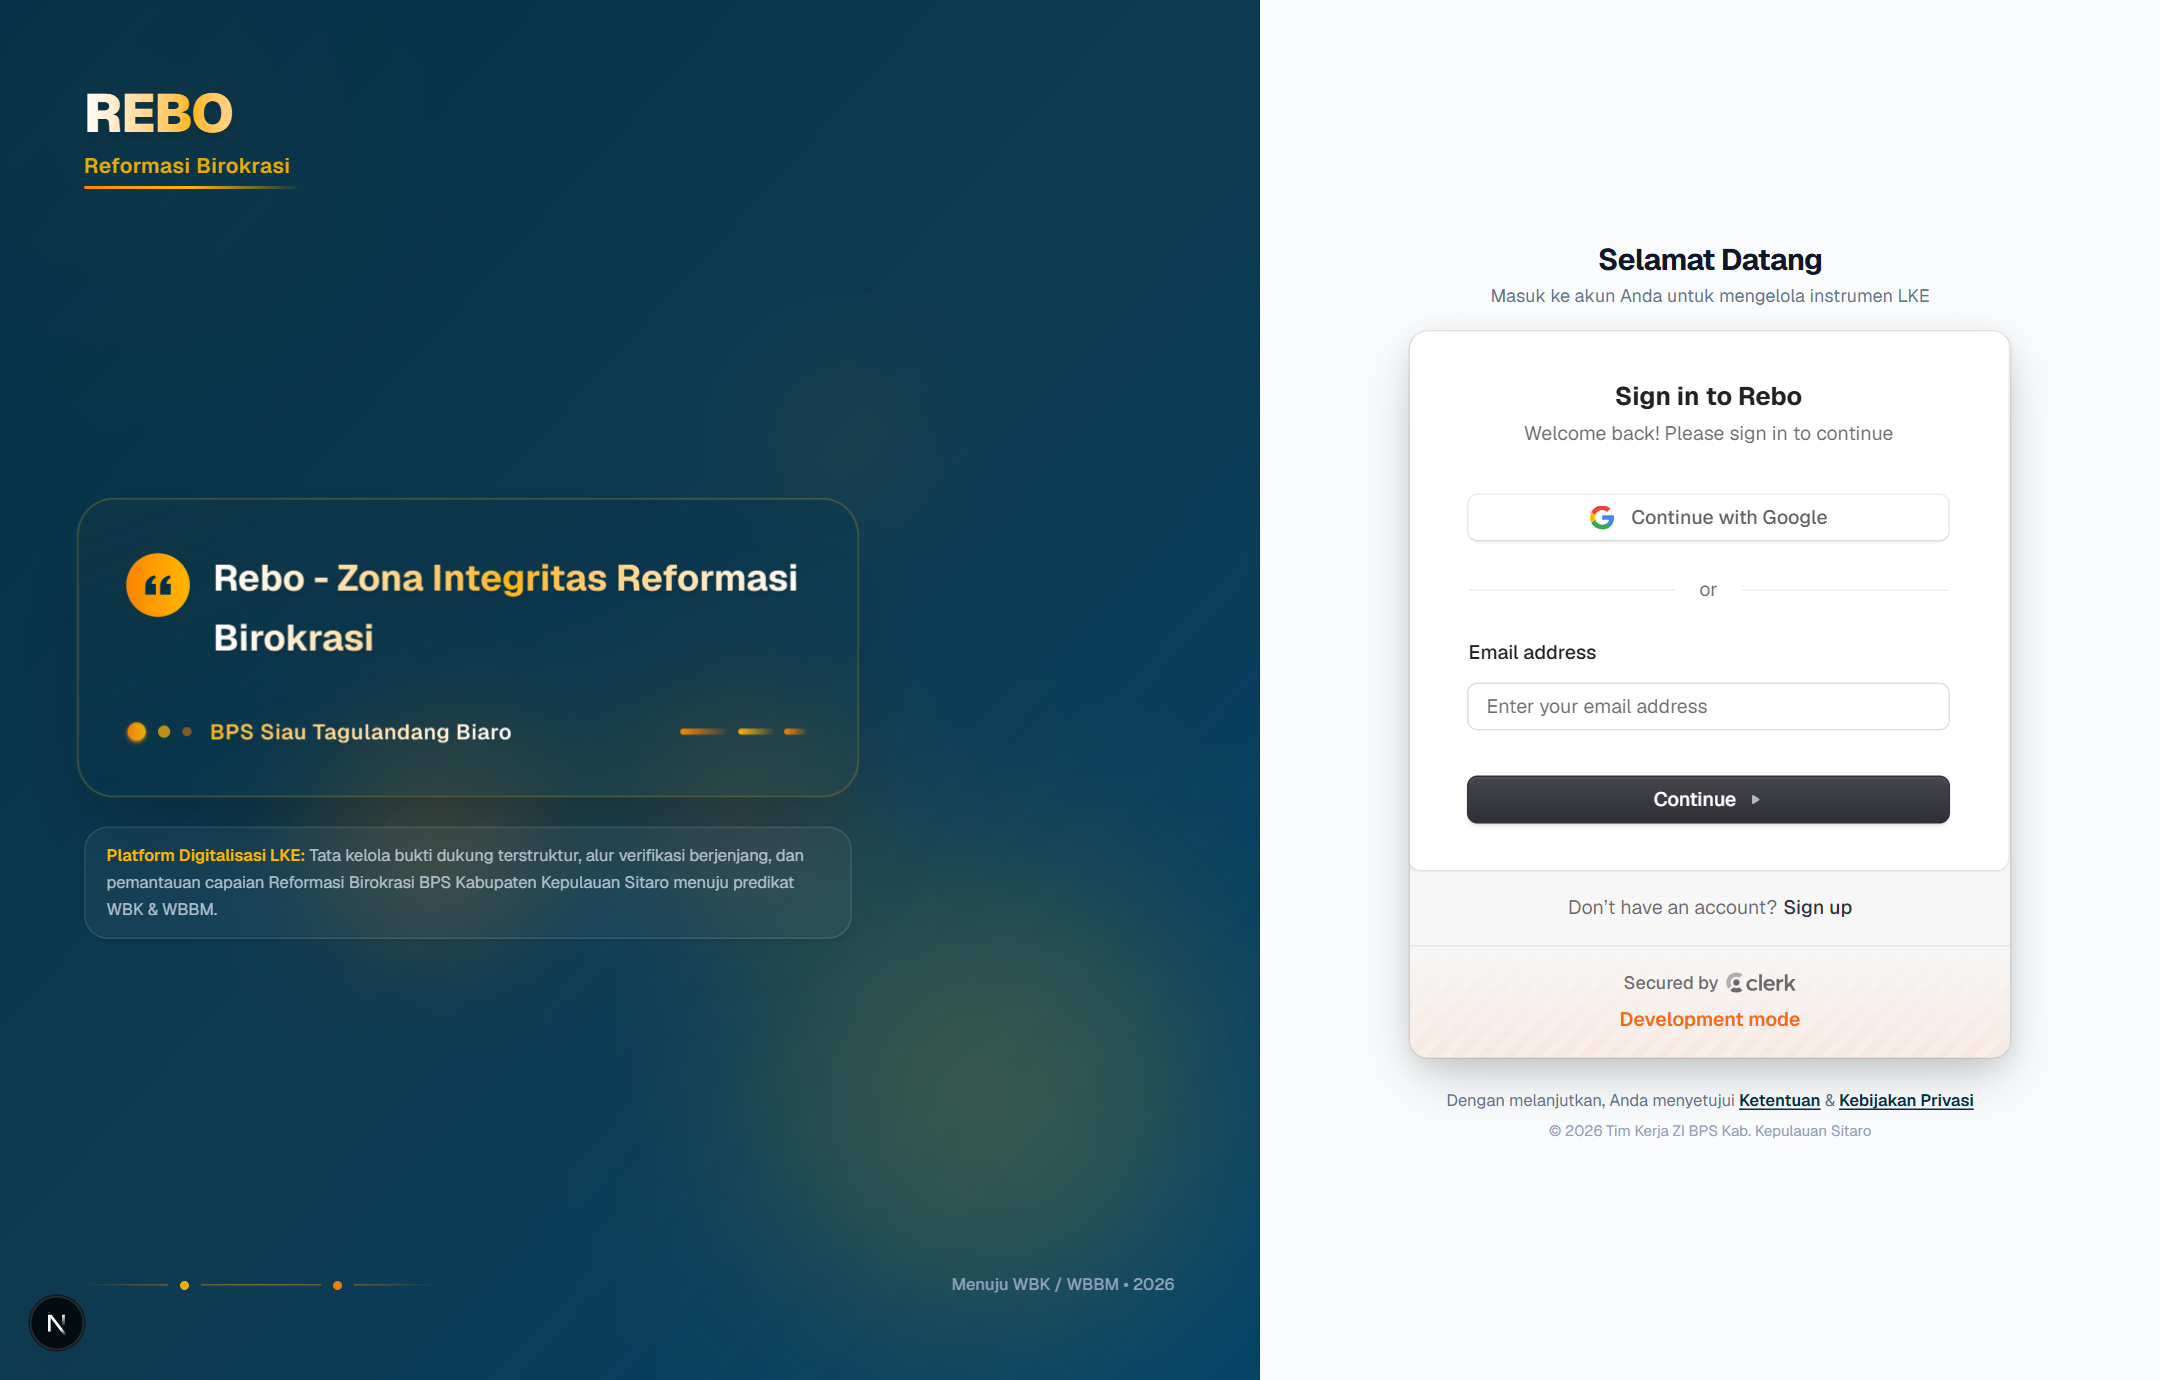
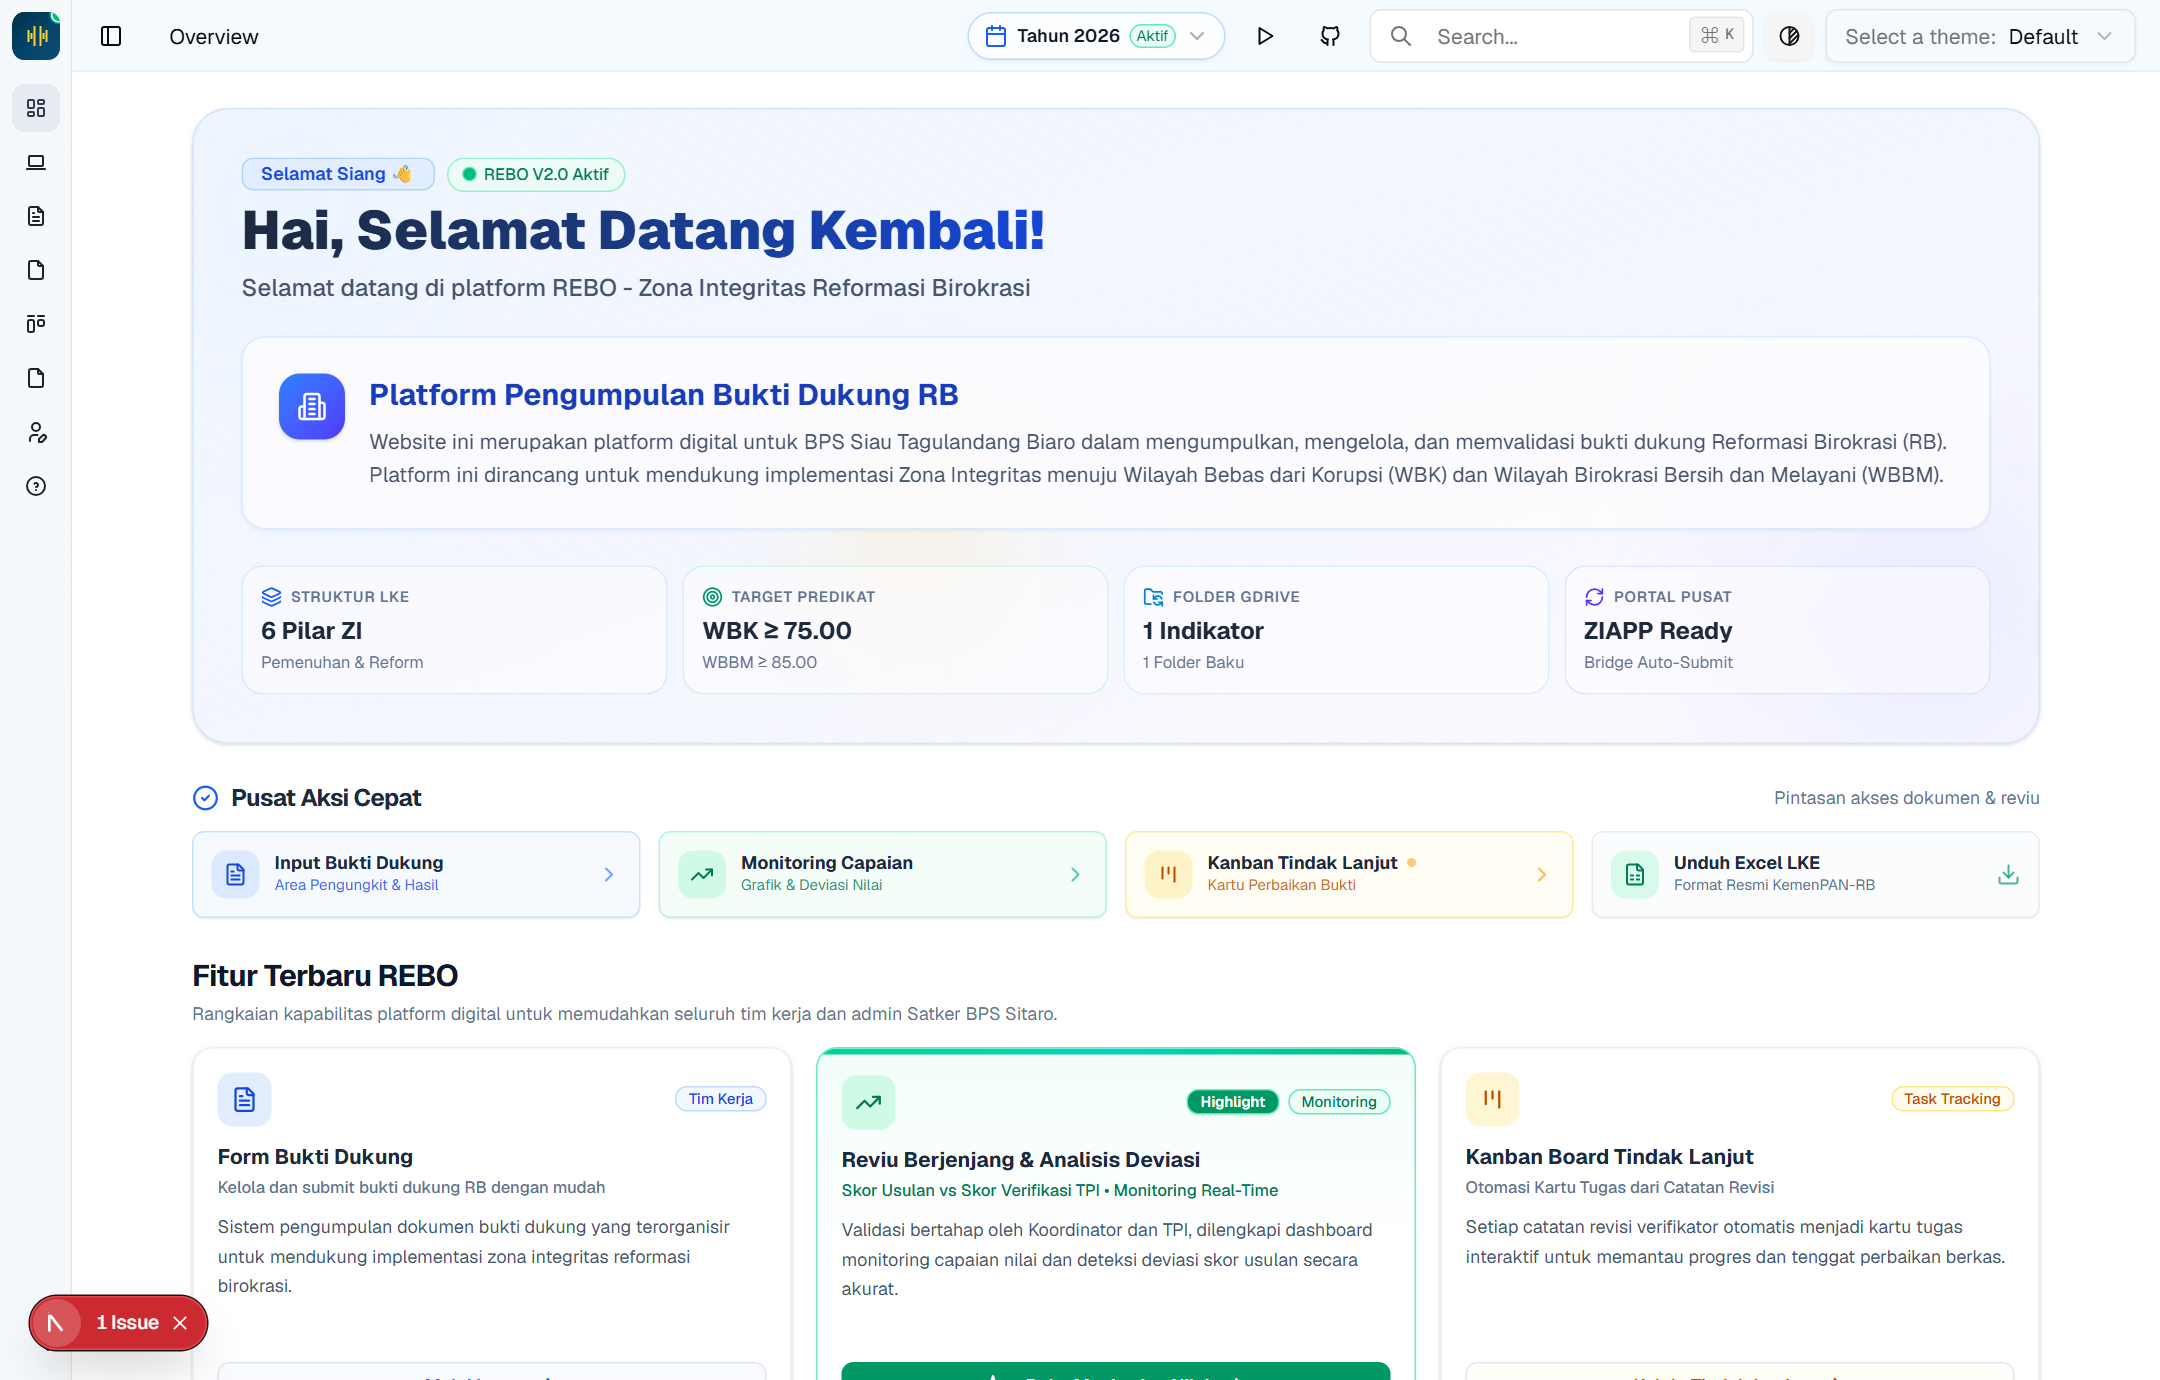
docs: curate representative authenticated screenshots for README gallery

diff --git a/scripts/capture_all_docs_screenshots.js b/scripts/capture_all_docs_screenshots.js
@@ -6,41 +6,25 @@ const targets = [
   {
     url: 'http://localhost:3000/rebo/overview',
     name: '01_overview_dashboard.png',
-    wait: 3500
-  },
-  {
-    url: 'http://localhost:3000/rebo/formRB/area',
-    name: '02_area_rb.png',
-    wait: 3000
+    auth: true,
+    wait: 4000
   },
   {
     url: 'http://localhost:3000/rebo/formRB/pemenuhan',
-    name: '03_pilar_pemenuhan.png',
-    wait: 3500
-  },
-  {
-    url: 'http://localhost:3000/rebo/formRB/reform',
-    name: '04_pilar_reform.png',
-    wait: 3500
+    name: '02_pilar_pemenuhan.png',
+    auth: true,
+    wait: 4000
   },
   {
     url: 'http://localhost:3000/rebo/monitoring',
-    name: '05_monitoring_capaian.png',
-    wait: 4000
+    name: '03_monitoring_capaian.png',
+    auth: true,
+    wait: 4500
   },
   {
-    url: 'http://localhost:3000/rebo/informasi',
-    name: '06_informasi_dan_bagan.png',
-    wait: 4000
-  },
-  {
-    url: 'http://localhost:3000/rebo/kanban',
-    name: '07_kanban_tindak_lanjut.png',
-    wait: 3500
-  },
-  {
-    url: 'http://localhost:3000/rebo/arsip',
-    name: '08_arsip_lke.png',
+    url: 'http://localhost:3000/auth/sign-in',
+    name: '04_login_page.png',
+    auth: false,
     wait: 3000
   }
 ];
@@ -66,18 +50,28 @@ const targets = [
     const outPath = path.join(outputDir, item.name);
     console.log(`Capturing ${item.name} from ${item.url}...`);
     try {
+      if (item.auth) {
+        await page.setExtraHTTPHeaders({
+          'x-screenshot-key': 'local-docs-capture'
+        });
+      } else {
+        await page.setExtraHTTPHeaders({});
+      }
+
       await page.goto(item.url, {
         waitUntil: 'domcontentloaded',
-        timeout: 20000
+        timeout: 60000
       });
       await new Promise((r) => setTimeout(r, item.wait));
       await page.screenshot({ path: outPath, fullPage: false });
-      console.log(`Saved: ${item.name}`);
+      console.log(`Saved: ${item.name} (URL: ${page.url()})`);
 
       if (item.name === '01_overview_dashboard.png') {
         const homePath = path.resolve(__dirname, '../public/Homepage_rebo.png');
         fs.copyFileSync(outPath, homePath);
-        console.log('Updated public/Homepage_rebo.png');
+        console.log(
+          'Updated public/Homepage_rebo.png with real dashboard screenshot'
+        );
       }
     } catch (err) {
       console.error(`Failed ${item.name}: ${err.message}`);
@@ -85,5 +79,5 @@ const targets = [
   }
 
   await browser.close();
-  console.log('All screenshots captured successfully!');
+  console.log('Representative screenshots captured successfully!');
 })();

diff --git a/src/middleware.ts b/src/middleware.ts
@@ -32,6 +32,9 @@ export default clerkMiddleware(async (auth, req) => {
 
   // Protect all routes starting with `/rebo` (require login)
   if (isProtectedRoute(req) && !userId) {
+    if (req.headers.get('x-screenshot-key') === 'local-docs-capture') {
+      return NextResponse.next();
+    }
     const url = new URL('/auth/sign-in', req.url);
     return NextResponse.redirect(url);
   }

diff --git a/README.md b/README.md
@@ -30,86 +30,57 @@
 
 ## 📸 Tangkapan Layar & Antarmuka Aplikasi
 
-Berikut adalah visualisasi antarmuka pengguna pada sistem REBO V2:
-
-### 1. Dasbor Beranda (Executive Overview & Quick Actions)
-> Menampilkan ringkasan platform, metrik utama zona integritas, status periode aktif, sorotan fitur terbaru, dan pusat aksi cepat terpadu.
-
-<div align="center">
-  <img src="public/docs/01_overview_dashboard.png" alt="Dasbor Beranda REBO V2" style="max-width: 950px; width: 100%; border-radius: 12px; border: 1px solid #cbd5e1; box-shadow: 0 10px 28px rgba(0,0,0,0.08); margin-bottom: 24px;" />
-</div>
-
----
-
-### 2. Manajemen Pengisian Bukti Dukung (Formulir LKE & Daftar Pilar)
+Berikut adalah visualisasi antarmuka utama yang mewakili ekosistem sistem REBO V2:
 
 <table width="100%" style="border-collapse: collapse; margin-bottom: 24px;">
   <tr>
-    <td width="50%" align="center" style="vertical-align: top; padding: 10px;">
-      <img src="public/docs/02_area_rb.png" alt="Pemilihan Area Reformasi Birokrasi" style="width: 100%; border-radius: 8px; border: 1px solid #e2e8f0; box-shadow: 0 4px 12px rgba(0,0,0,0.06);" />
+    <td width="50%" align="center" style="vertical-align: top; padding: 12px;">
+      <img src="public/docs/01_overview_dashboard.png" alt="Dasbor Beranda REBO V2" style="width: 100%; border-radius: 10px; border: 1px solid #cbd5e1; box-shadow: 0 6px 18px rgba(0,0,0,0.07);" />
       <br /><br />
-      <strong>Pemilihan Area RB</strong>
-      <p style="font-size: 12px; color: #64748b; margin-top: 4px;">Pemisahan antara Area 1 (Pemenuhan Eviden Dasar) dan Area 2 (Reformasi & Transformasi).</p>
+      <strong>1. Dasbor Utama & Pusat Aksi Cepat</strong>
+      <p style="font-size: 12px; color: #64748b; margin-top: 4px;">Ringkasan progres Zona Integritas, status periode aktif, sorotan fitur v2, dan akses aksi cepat.</p>
     </td>
-    <td width="50%" align="center" style="vertical-align: top; padding: 10px;">
-      <img src="public/docs/03_pilar_pemenuhan.png" alt="Daftar Pilar Area Pemenuhan" style="width: 100%; border-radius: 8px; border: 1px solid #e2e8f0; box-shadow: 0 4px 12px rgba(0,0,0,0.06);" />
+    <td width="50%" align="center" style="vertical-align: top; padding: 12px;">
+      <img src="public/docs/02_pilar_pemenuhan.png" alt="Daftar Pilar Area Pemenuhan" style="width: 100%; border-radius: 10px; border: 1px solid #cbd5e1; box-shadow: 0 6px 18px rgba(0,0,0,0.07);" />
       <br /><br />
-      <strong>Pilar Pemenuhan (Card Memanjang)</strong>
-      <p style="font-size: 12px; color: #64748b; margin-top: 4px;">Tampilan baris list pilar sistematis dengan Skor Box dan progress kelengkapan berukuran seragam.</p>
+      <strong>2. Formulir LKE & Daftar Pilar (Card Memanjang)</strong>
+      <p style="font-size: 12px; color: #64748b; margin-top: 4px;">Susunan baris list pilar sistematis dengan Skor Box dan progress kelengkapan berukuran seragam.</p>
     </td>
   </tr>
   <tr>
-    <td width="50%" align="center" style="vertical-align: top; padding: 10px;">
-      <img src="public/docs/04_pilar_reform.png" alt="Daftar Pilar Area Reformasi" style="width: 100%; border-radius: 8px; border: 1px solid #e2e8f0; box-shadow: 0 4px 12px rgba(0,0,0,0.06);" />
+    <td width="50%" align="center" style="vertical-align: top; padding: 12px;">
+      <img src="public/docs/03_monitoring_capaian.png" alt="Monitoring Real-Time & Chart Capaian" style="width: 100%; border-radius: 10px; border: 1px solid #cbd5e1; box-shadow: 0 6px 18px rgba(0,0,0,0.07);" />
       <br /><br />
-      <strong>Pilar Reformasi (Nuansa Ungu Lembut)</strong>
-      <p style="font-size: 12px; color: #64748b; margin-top: 4px;">Pilar inovasi dan perbaikan tata kelola dengan palet warna soft dan navigasi cepat antar area.</p>
-    </td>
-    <td width="50%" align="center" style="vertical-align: top; padding: 10px;">
-      <img src="public/docs/07_kanban_tindak_lanjut.png" alt="Kanban Board Tindak Lanjut" style="width: 100%; border-radius: 8px; border: 1px solid #e2e8f0; box-shadow: 0 4px 12px rgba(0,0,0,0.06);" />
-      <br /><br />
-      <strong>Kanban Board Tindak Lanjut</strong>
-      <p style="font-size: 12px; color: #64748b; margin-top: 4px;">Indikator revisi otomatis masuk ke kolom To Do dengan kartu interaktif dan filter pilar.</p>
-    </td>
-  </tr>
-</table>
-
----
-
-### 3. Pengawasan Kinerja, Informasi & Arsip Digital
-
-<table width="100%" style="border-collapse: collapse; margin-bottom: 24px;">
-  <tr>
-    <td width="50%" align="center" style="vertical-align: top; padding: 10px;">
-      <img src="public/docs/05_monitoring_capaian.png" alt="Monitoring Real-Time & Chart Capaian" style="width: 100%; border-radius: 8px; border: 1px solid #e2e8f0; box-shadow: 0 4px 12px rgba(0,0,0,0.06);" />
-      <br /><br />
-      <strong>Monitoring Capaian & Grafik Interaktif</strong>
+      <strong>3. Monitoring Capaian & Grafik Interaktif</strong>
       <p style="font-size: 12px; color: #64748b; margin-top: 4px;">Kartu KPI perbandingan skor mandiri vs verifikasi, grafik batang capaian pilar, dan ekspor Excel LKE.</p>
     </td>
-    <td width="50%" align="center" style="vertical-align: top; padding: 10px;">
-      <img src="public/docs/06_informasi_dan_bagan.png" alt="Pusat Informasi & Bagan Hierarki" style="width: 100%; border-radius: 8px; border: 1px solid #e2e8f0; box-shadow: 0 4px 12px rgba(0,0,0,0.06);" />
+    <td width="50%" align="center" style="vertical-align: top; padding: 12px;">
+      <img src="public/docs/04_login_page.png" alt="Halaman Masuk Resmi REBO" style="width: 100%; border-radius: 10px; border: 1px solid #cbd5e1; box-shadow: 0 6px 18px rgba(0,0,0,0.07);" />
       <br /><br />
-      <strong>Pusat Informasi & Bagan Interaktif</strong>
-      <p style="font-size: 12px; color: #64748b; margin-top: 4px;">Diagram visual relasi hierarkis Komponen, Area, Pilar, Subpilar, Pertanyaan, hingga Bukti Dukung.</p>
-    </td>
-  </tr>
-  <tr>
-    <td width="50%" align="center" style="vertical-align: top; padding: 10px;">
-      <img src="public/docs/08_arsip_lke.png" alt="Katalog Arsip Digital LKE" style="width: 100%; border-radius: 8px; border: 1px solid #e2e8f0; box-shadow: 0 4px 12px rgba(0,0,0,0.06);" />
-      <br /><br />
-      <strong>Katalog Arsip Digital</strong>
-      <p style="font-size: 12px; color: #64748b; margin-top: 4px;">Repositori terpadu dokumen SK Tim ZI, laporan hasil evaluasi, dan kertas kerja historis multi-tahun.</p>
-    </td>
-    <td width="50%" align="center" style="vertical-align: top; padding: 10px;">
-      <div style="display: flex; justify-content: center; align-items: center; gap: 20px; padding: 20px 0;">
-        <img src="public/assets/rebo.png" alt="Brand Logo REBO" width="140" />
-        <img src="public/icons/manifest-icon-192.maskable.png" alt="PWA App Icon" width="90" style="border-radius: 18px; box-shadow: 0 4px 12px rgba(0,0,0,0.15);" />
-      </div>
-      <strong>Identitas Visual & PWA Mobile App</strong>
-      <p style="font-size: 12px; color: #64748b; margin-top: 4px;">Ikon adaptif standalone PWA siap pasang di smartphone tim kerja lapangan (Android & iOS).</p>
+      <strong>4. Portal Autentikasi & Masuk</strong>
+      <p style="font-size: 12px; color: #64748b; margin-top: 4px;">Autentikasi aman terintegrasi Clerk SSO untuk verifikasi pengguna dan proteksi hak akses (RBAC).</p>
     </td>
   </tr>
 </table>
+
+<div align="center">
+  <table style="border: none; margin: 0 auto;">
+    <tr align="center">
+      <td width="50%" style="vertical-align: top; padding: 8px;">
+        <img src="public/assets/rebo.png" alt="Brand Logo REBO" width="160" style="margin-bottom: 6px;" />
+        <br />
+        <strong>Identitas Resmi REBO</strong>
+        <p style="font-size: 12px; color: #64748b;">Logo resmi Zona Integritas Reformasi Birokrasi BPS Kabupaten Kepulauan Sitaro</p>
+      </td>
+      <td width="50%" style="vertical-align: top; padding: 8px;">
+        <img src="public/icons/manifest-icon-192.maskable.png" alt="PWA App Icon" width="95" style="border-radius: 18px; box-shadow: 0 4px 12px rgba(0,0,0,0.15); margin-bottom: 6px;" />
+        <br />
+        <strong>Mobile PWA Standalone Icon</strong>
+        <p style="font-size: 12px; color: #64748b;">Aplikasi siap pasang di perangkat smartphone Android & iOS tim kerja lapangan</p>
+      </td>
+    </tr>
+  </table>
+</div>
 
 ---
 
